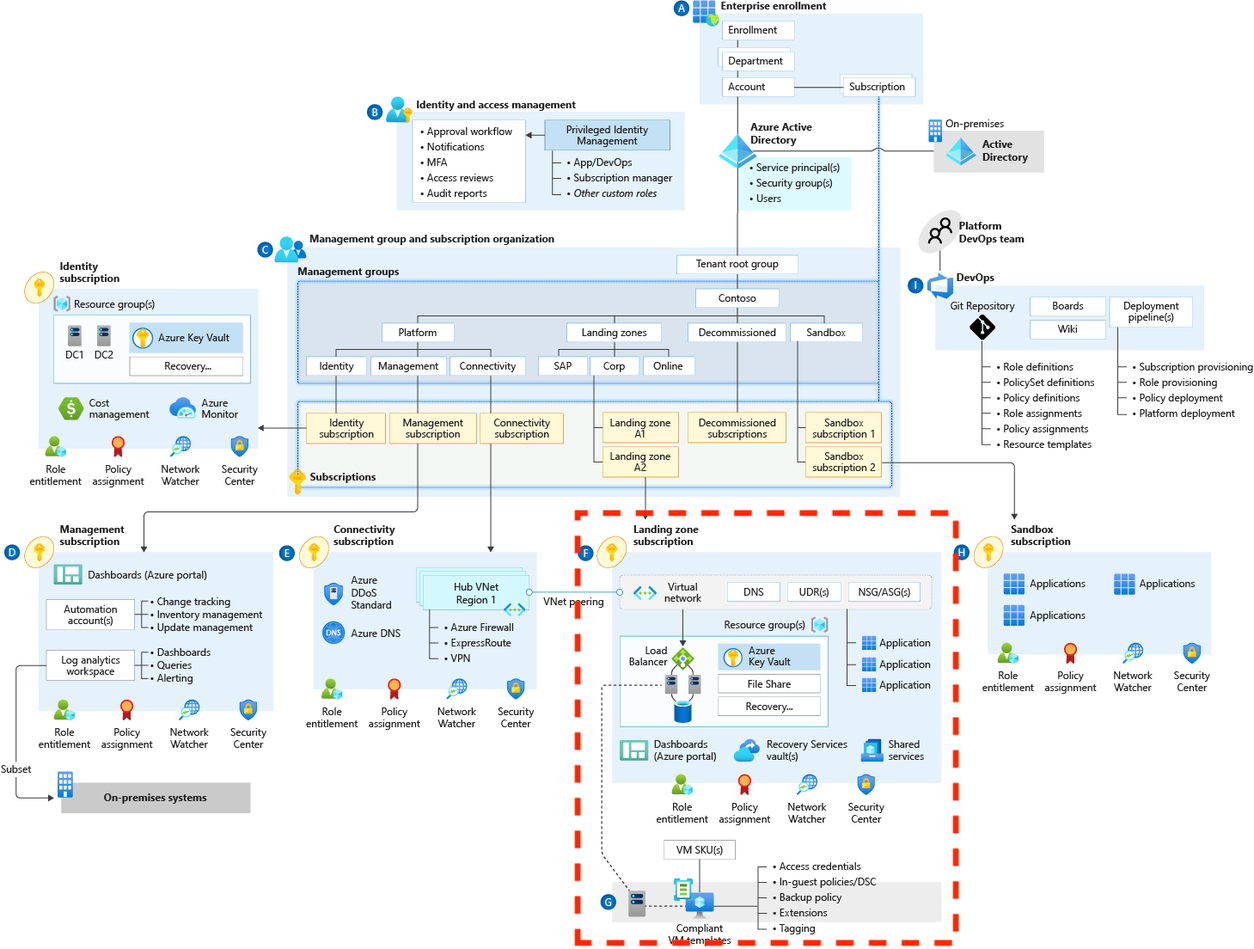
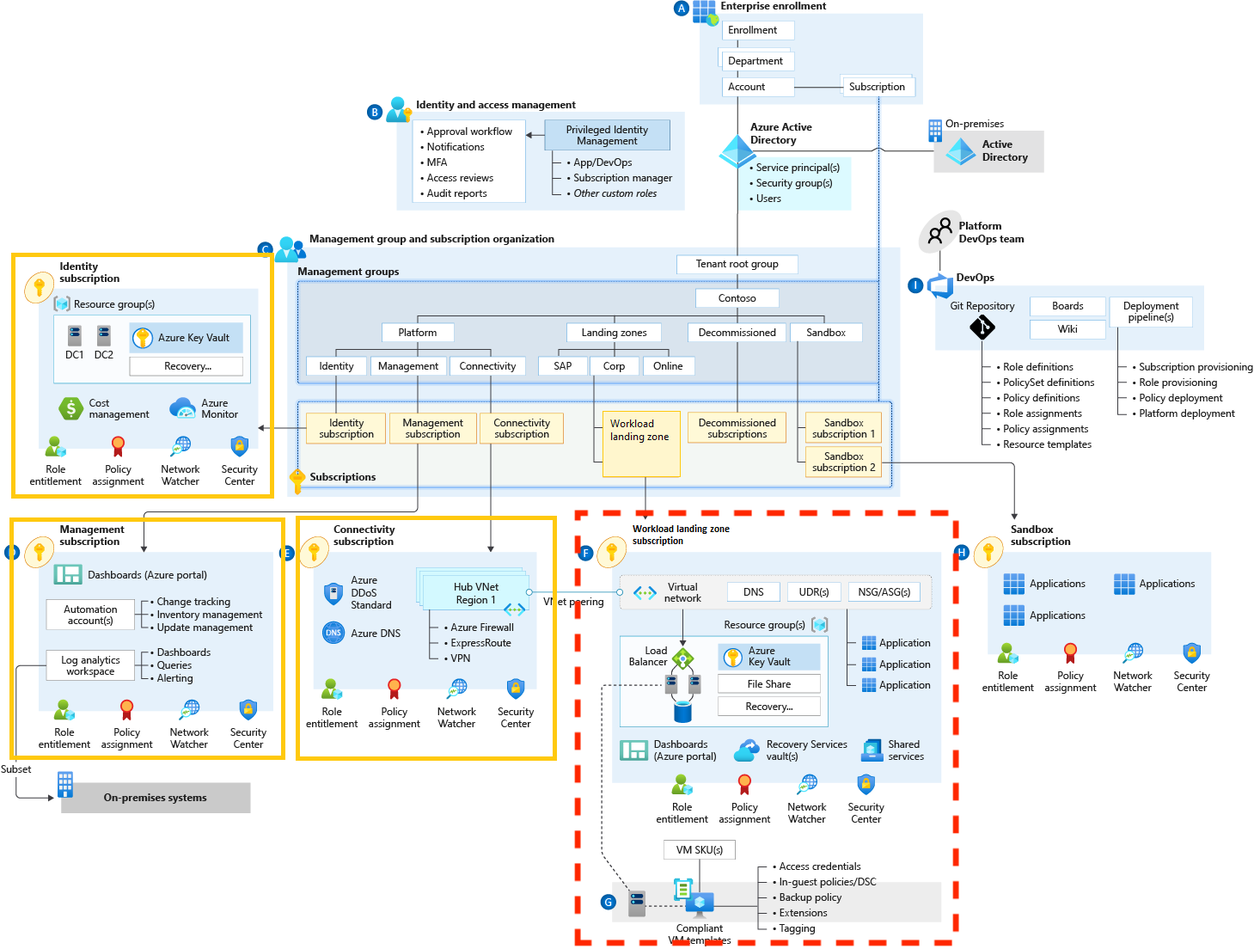
link, content, and ALZ image updates

Changed region(s): [[0.0, 0.2464, 0.4626, 0.8007], [0.4626, 0.4312, 0.5552, 0.4928], [0.4935, 0.5543, 0.586, 0.5851]]

diff --git a/docs/scenarios/defense/secure.md b/docs/scenarios/defense/secure.md
@@ -4,7 +4,7 @@ description: Recommendations for securing cloud workloads in a defense organizat
 author: stephen-sumner
 ms.author: ssumner
 ms.reviewer: ssumner
-ms.date: 10/18/2022
+ms.date: 11/14/2022
 ms.topic: conceptual
 ms.service: cloud-adoption-framework
 ms.subservice: organize
@@ -18,25 +18,17 @@ The secure methodology is a critical step in the mission domain of cloud adoptio
 
 Security refers to the cybersecurity triad of confidentiality, integrity, and availability. Even though security falls within the mission domain, it’s an important consideration at every stage in the cloud adoption journey. Security fails without a proper strategy and plan. Landing zones and governance falter without proper security considerations. Modernizations weaken security posture if security isn't built into the development and operations processes.
 
-Security is no less important for a workload. Workloads inherit security controls from the platform but must still apply security controls above the platform level.
-
-Here are a few security recommendations to consider when building and managing defense workloads.
+Security is no less important for a workload. Workloads inherit security controls from the platform but must still apply security controls above the platform level. Here are a few security recommendations to consider when building and managing defense workloads.
 
 ## Implement zero trust
 
 Zero Trust is a security methodology, not a product. Implementations of zero trust will differ, but the commonality is an attempt to eliminate trust.
 
-Three main principles of zero trust addressed here:
-
-- Verify every session explicitly.
-- Enforce the least privilege on every identity.
-- Monitor, search, and secure continuously.
+Three main principles of zero trust addressed are (1) verify every session explicitly, (2) enforce the least privilege on every identity, and (3) monitor, search, and secure continuously. Let's dig into these further.
 
 **(1) Verify every session explicitly** - Verify refers to authentication and authorization. You need to authenticate and authorize every device regardless of location. Multifactor authentication is a common defense standard where the use of a security token supplements authentication process.
 
-We recommend you use an attribute-based access control (ABAC) system. ABAC builds on role-based access control (RBAC) and requires devices to meet extra conditions before gaining access to a resource. Security professionals configure the conditions to limit access and minimize the number of roles assignments needing to be managed. Azure Active Directory provides native ABAC capabilities so cloud identities only access authorized information.
-
-For more information, see [attribute-based access control](/azure/role-based-access-control/conditions-overview).
+We recommend you use an attribute-based access control (ABAC) system. ABAC builds on role-based access control (RBAC) and requires devices to meet extra conditions before gaining access to a resource. Security professionals configure the conditions to limit access and minimize the number of roles assignments needing to be managed. Azure Active Directory provides native ABAC capabilities so cloud identities only access authorized information. For more information, see [attribute-based access control](/azure/role-based-access-control/conditions-overview).
 
 **(2) Enforce least privileges on every identity** - The concept of least privilege access is a familiar concept in defense environments. It’s visible at the macro-level in the mandatory access control system many defense organizations use. Data receives classification labels based on its sensitivity (confidential, secret, top secret), and individuals receive access to data needed to complete a task.  Once the task is completed, access is removed. Access to sensitive data when not needed is a violation of the least privileged model.
 
@@ -44,37 +36,33 @@ RBAC and ABAC are the core features of least privilege enforcement. People chang
 
 Azure simplifies access reviews with RBAC and ABAC automating aspects of access control. Conditional access policies can be tied to roles, departments, projects, and locations of defense personnel. As people change roles or locations, their access to resources will change when updated in their identity. Security teams can perform manual reviews of any resource in Azure at any time. Azure lets users see resources from multiple levels, making manual review easier.
 
-Granting elevated privilege for a defined period is a security best-practice. Azure AD simplifies the use of elevated privileges with Privileged Identity Management (PIM). PIM grants elevated privileges when requested by a legitimate user and only grants those privileges for a defined period. This process represents just-in-time-access and reduces the number of dormant accounts that have privileged access.
+Granting elevated privilege for a defined period is a security best-practice. Azure AD simplifies the use of elevated privileges with Privileged Identity Management (PIM). PIM grants elevated privileges when requested by a legitimate user and only grants those privileges for a defined period. This process represents just-in-time-access and reduces the number of dormant accounts that have privileged access. For more information on PIM, see [PIM for just-in-time access](/azure/active-directory/roles/best-practices#2-use-privileged-identity-management-to-grant-just-in-time-access).
 
-- For more information on PIM, see [PIM for just-in-time access](/azure/active-directory/roles/best-practices#2-use-privileged-identity-management-to-grant-just-in-time-access).
-- For more on identity, see [Azure Government identity](/azure/azure-government/documentation-government-plan-identity).
+For more information on identity, see [Azure Government identity](/azure/azure-government/documentation-government-plan-identity).
 
-**(3) Monitor, scan, and improve continuously** - Security shouldn’t be static. The threat landscape shifts constantly, and security must shift with it. Defense security teams should monitor, scan, and improve cloud environments to mitigate risks. Defense organizations often have required security tools that cloud-native tooling can supplement for comprehensive security detection and analysis.
+**(3) Monitor, scan, and improve continuously** - Security shouldn’t be static. The threat landscape shifts constantly, and security must shift with it. Defense security teams should monitor, scan, and improve cloud environments to mitigate risks. Defense organizations often have required security tools that cloud-native tooling can supplement for comprehensive security detection and analysis. We recommend Azure Monitor as a baseline monitoring tool. For more information, see [Azure Monitor](/azure/azure-monitor/overview).
 
 Here are a few tools that add value to defense deployments:
 
-- ***Threat intelligence***: Cloud environments should have a persistent threat intelligence and detection tool that evaluates network security posture. This tool should scan your environment and generate alerts for the vulnerabilities it detects. For more information, see [linking to threat intelligence feeds](/azure/sentinel/connect-threat-intelligence-tip).
-- ***Distributed denial of service (DDoS)***: Security tools should protect against malicious or non-malicious distributed denial-of-service attacks.
-- ***Security Information and Event Management (SIEM)***: A SIEM is a necessary threat detection and forensic capabilities that analyze, aggregates, and detects threats in logs generated throughout a cloud environment.
+***Threat intelligence***: Cloud environments should have a persistent threat intelligence feed and detection tool that evaluates network security posture. This tool should scan your environment and generate alerts for the vulnerabilities it detects. For more information, see [threat intelligence feeds](/azure/sentinel/connect-threat-intelligence-tip).
 
-For a list of available security tools, see [Azure Government security](/azure/azure-government/documentation-government-plan-security).
+***Distributed denial of service (DDoS)***: Security tools should protect against malicious or non-malicious distributed denial-of-service attacks.
 
-For more information, see [zero trust in Azure](/azure/security/fundamentals/zero-trust).
+***Security Information and Event Management (SIEM)***: A SIEM is a necessary threat detection and forensic capabilities that analyze, aggregates, and detects threats in logs generated throughout a cloud environment. For a list of available security tools, see [Azure Government security](/azure/azure-government/documentation-government-plan-security).
+
+For more information on zero trust, see [zero trust in Azure](/security/zero-trust/).
 
 ## Automate security compliance
 
-Defense security standards require defense security professionals to maintain hundreds of security controls. The manual execution of this process is labor intensive and prone to human error. It's possible to automate compliance with leading security standards and automate the remediation of cloud resources to align with those standards. Azure allows mission owners to automate compliance for:
+Defense security standards require defense security professionals to maintain hundreds of security controls. The manual execution of this process is labor intensive and prone to human error. It's possible to automate compliance with leading security standards and automate the remediation of cloud resources to align with those standards. Azure allows mission owners to automate compliance for, Zero Trust, CMMC, and NIST 800-53
 
-- Zero Trust
-- CMMC
-- NIST 800-53
+The Azure SIEM (Sentinel) can create a visual report all non-compliant resources against a given security standard. When prompted, it generates remediation suggestions for any security controls that aren’t compliant with the standard. The SIEM tool also lets security professionals download compliance assessment reports that can serve as point-in-time security baseline and improve transparency. For more information, see, [zero trust automation](/security/zero-trust/integrate/sentinel-solution) and [built-in compliance workbooks](/azure/sentinel/monitor-your-data).
 
-The Azure SIEM (Sentinel) can create a visual report all non-compliant resources against a given security standard. When prompted, it generates remediation suggestions for any security controls that aren’t compliant with the standard. The SIEM tool also lets security professionals download compliance assessment reports that can serve as point-in-time security baseline and improve transparency.
+For general security information, see:
 
-For more information, see:
-
-- [Zero trust automation](/security/zero-trust/integrate/sentinel-solution)
-- [Use built-in workbooks](/azure/sentinel/monitor-your-data)
+- [Security documentation](/security/)
+- [Security fundamentals](/azure/security/fundamentals/)
+- [Operational security checklist](/azure/security/fundamentals/operational-checklist).
 
 ## Next step
 

diff --git a/docs/scenarios/defense/adopt.md b/docs/scenarios/defense/adopt.md
@@ -4,7 +4,7 @@ description: Recommendations for adopting cloud technologies in a defense organi
 author: stephen-sumner
 ms.author: ssumner
 ms.reviewer: ssumner
-ms.date: 10/18/2022
+ms.date: 11/14/2022
 ms.topic: conceptual
 ms.service: cloud-adoption-framework
 ms.subservice: organize
@@ -22,11 +22,7 @@ During the adopt phase, defense workloads start their journey in the cloud and i
 - Modernization lowers the total cost of ownership (TCO) while driving security, performance, and efficiency.
 - Innovation is where defense organizations start building cloud native solutions to meet data needs.
 
-There are a few important considerations to be aware of in the adopt phase. It's best practice for defense organizations to:
-
-- Create a tailored migration plan.
-- Incentivize modernization.
-- Use DevOps where possible.
+There are a few important considerations to be aware of in the adopt phase.
 
 ## Create a tailored migration plan
 
@@ -47,11 +43,9 @@ For more information, see [using Azure Import/Export](/azure/import-export/stora
 
 ## Incentivize modernization
 
-Modernization is all about maximizing value and should be a priority for mission owners. Without modernization, it’s difficult to experience the true benefits of the cloud, more capabilities for less work and money.
+Modernization is all about maximizing value and should be a priority for mission owners. Without modernization, it’s difficult to experience the true benefits of the cloud, more capabilities for less work and money. Two best practices related to requirements and technology are relevant here.
 
-Two best practices are relevant to defense organizations:
-
-**(1) Modernization requirements** - The way cloud services are acquired can affect the pace of modernization. It’s common for defense organizations to operate the landing zone separately from the workloads that sit on top of it. The best model is to have the cloud-broker build and manage the landing zone while other teams manage the workloads on the platform. The separation of duties creates necessary security boundaries but can also stifle modernization. It’s important that mission owners incentivize technical teams to adopt new technologies so that defense workloads can meet current and future demands. Building modernization into requirements and setting milestones against modernization goals is an effective approach. Require proposals for technical solutions to outline how modernization efforts aligned to process improvements, application enhancement, and database configurations. These efforts should align with mission objectives.
+**(1) Modernization requirements** - The way cloud services are acquired can affect the pace of modernization. It’s common for defense organizations to operate the landing zone separately from the workloads that sit on top of it, and the best model is to have the cloud-broker build and manage the landing zone while mission owner teams manage the workloads on the platform. However, this separation of duties creates security boundaries but can also stifle modernization, so it’s important that mission owners incentivize technical teams to adopt new technologies so that defense workloads can meet current and future demands. Building modernization into requirements and setting milestones against modernization goals is an effective approach. Require proposals for technical solutions to outline how modernization efforts align to process improvements, application enhancement, and database configurations. The proposed solutions should align with mission objectives.
 
 For more information, see [modernization alignment](/azure/cloud-adoption-framework/modernize/business-alignment/).
 
@@ -67,19 +61,20 @@ For more information, see [PaaS adoption](/azure/cloud-adoption-framework/modern
 
 DevOps is an Agile methodology that focuses on delivering value. DevOps synchronizes development and operations into an iterative process that aims to generate value fast. Prioritization of tasks is the key mechanism. When worked is prioritized, teams finish the highest priority tasks first. Work is also time-bound to create a feedback loop that accelerates learning and speeds up delivery.
 
-Defense standards and risk mitigation processes tend to limit the extent that defense organizations can implement true DevOps. Protocols, regulations, and contracting lifecycles force defense development and operations into waterfall framework. However, it’s possible to apply DevOps principles within the confines of these regulations.
+Defense standards and risk mitigation processes tend to limit the extent that defense organizations can implement true DevOps. Protocols, regulations, and contracting lifecycles force defense development and operations into waterfall framework. However, it’s possible to apply DevOps principles within the confines of these regulations. Here are a few DevOps recommendations:
 
-Here are a few DevOps recommendations:
-
-**(1) Align to existing process** - DevOps shouldn’t break existing structure. It should align to it. It's worth considering how a full adoption of DevOps can enhance workloads, but until that time, DevOps should work within the confines of existing operations. If current operations are more waterfall, DevOps strategies can work between those sequential milestones. DevOps implementations should account for the mandatory handoffs and sequential checkpoints many defense risk management processes are founded on. An approach that disregards the current system is destined to fail.
+**(1) Align to existing process** - DevOps shouldn’t break existing structure. It should align to it. It's worth considering how a full adoption of DevOps can enhance workloads, but until that time, DevOps should work within existing operations. If current operations are more waterfall, DevOps strategies can work between those sequential milestones. DevOps implementations should account for the mandatory handoffs and sequential checkpoints many defense risk management processes are founded on. An approach that disregards the current system is destined to fail.
 
 **(2) Improve quickly** - The ability to iterate through tasks multiple times with reviews allows technical teams to improve development and operations quickly. Teams should work on developing a minimum viable product and a proof-of-concept and improve them until they meet mission objectives.
 
-**(3) Use continuous integration and continuous deployment (CI/CD)** - CI/CD is a standard DevOps concept. It’s an automated approach to constantly improve and deploy code into production. Rarely is it a good idea to deploy code changes on mission critical workloads directly into production, so this approach needs to be modified for defense scenarios. We recommend two CI/CD pipelines for mission-critical workloads. The first CI/CD pipeline should create a stage deployment that can be rigorously tested. Code can be deployed to production only after passing all required tests. Development teams will need to fine tune the process to ensure tests can be completed on staged deliverables as quickly as they arrive.
+**(3) Use continuous integration and continuous deployment (CI/CD)** - CI/CD is a standard DevOps concept. It’s an automated approach to constantly improve and deploy code into production. Rarely is it a good idea to deploy code changes on mission critical workloads directly into production, so this approach needs to be modified for defense scenarios. We recommend two CI/CD pipelines for mission-critical workloads. The first CI/CD pipeline should create a stage deployment that can be rigorously tested. Code can be deployed to production only after passing all required tests. Development teams will need to fine tune the process to ensure tests can be completed on staged deliverables as quickly as they arrive. For more information our CI/CD capabilities, see [Azure Pipelines](/azure/devops/pipelines/get-started/what-is-azure-pipelines).
 
-**(4) DevOps tools** - The adoption of DevOps tools is needed to make DevOps work at any level. Create a list of DevOps tools with their impact-level authorizations mapped to their DevOps process. This mapping might be a good requirement for proposals and will help determine how much DevOps can be adopted.
+**(4) DevOps tools** - The adoption of DevOps tools is needed to make DevOps work. Create a list of needed DevOps tools with their impact-level authorizations mapped to their DevOps process. This mapping might be a good requirement for proposals and will help determine how much DevOps can be adopted.
 
-For more information on DevOps, see [process modernization](/azure/cloud-adoption-framework/modernize/modernize-strategies/process-modernization).
+For more information on DevOps, see:
+
+- [Process modernization](/azure/cloud-adoption-framework/modernize/modernize-strategies/process-modernization)
+- [Azure DevOps](/azure/devops/)
 
 ## Next step
 

diff --git a/docs/scenarios/defense/govern.md b/docs/scenarios/defense/govern.md
@@ -4,7 +4,7 @@ description: Recommendations for cloud platform governance in a defense organiza
 author: stephen-sumner
 ms.author: mimckann
 ms.reviewer: ssumner
-ms.date: 10/18/2022
+ms.date: 11/14/2022
 ms.topic: conceptual
 ms.service: cloud-adoption-framework
 ms.subservice: organize
@@ -20,19 +20,7 @@ Governance is a framework that aligns personnel, deployments, and budgets to a c
 
 Defense organizations need governance to mitigate risks. Effective cost, security, and policy governance can streamline platform operations and provide a means to inherit these guardrails at the workload level. Without proper governance, significant management burdens and productivity limits will occur. A lack of governance also creates responsibility gaps, introduces security risks, and delays return on investments (ROIs) due to excessive deployment delays and rework.
 
-For more information, see:
-
-- [Governance guide](/azure/cloud-adoption-framework/govern/guides/complex/)
-- [Governance disciplines](/azure/cloud-adoption-framework/govern/governance-disciplines)
-
-To avoid some of these issues, it’s worth considering the following best practices:
-
-- Evaluate roles and responsibilities
-- Automate compliance
-- Create a cost governance strategy
-- Create cost baselines
-
-Let's address each best practice:
+To avoid some of these issues, it’s worth considering the following governance best practices.
 
 ## Evaluate roles and responsibilities
 
@@ -62,7 +50,7 @@ Policies in Azure create a firm guardrail and automate the bulk of governance ta
 For more on governance automation, see
 
 - [Security governance](/azure/cloud-adoption-framework/secure/security-governance)
-- [Overview of Azure Policy](/azure/governance/policy/overview)
+- [Overview of Azure Policy](/azure/governance/policy/)
 - [Compliance in Azure](/azure/azure-government/documentation-government-plan-compliance)
 - [Azure compliance standards](/azure/compliance/)
 - [Governance visualization tool](https://github.com/microsoft/CloudAdoptionframework/tree/master/govern/AzureGovernanceVisualizer)
@@ -81,7 +69,7 @@ Here are a few considerations when building a cost governance strategy:
 
 **(4) Trend analysis** - Conduct trend analysis to drive transparency and allows visibility into active resources and consumption. Anomalous spikes in resource spend and should be brought to the technical team for explanation. It could signal a new phase in operations or a governance gap. Flag and review any new charges or spikes in trends. This form of active cost management helps avoid waste and mitigates risk. Trend analysis can also help manage infrastructure and determine future priorities. Mission owners can see how much money is spent on a given capability. If the money spent doesn’t help meet mission objectives, the future of this resource or workload needs reevaluation.
 
-For more information, see [cost governance](/azure/cloud-adoption-framework/govern/cost-management/).
+For more information, see [cost governance](/azure/cloud-adoption-framework/govern/cost-management/) and [cost management & billing](/azure/cost-management-billing/cost-management-billing-overview).
 
 ## Create cost baselines
 
@@ -100,9 +88,12 @@ Here are some practical steps to creating workload estimates:
 
 Not all variables require entry, and some services can be difficult to estimate. Mission owners should determine the level of accuracy required to establish this baseline. Once a TCO estimate is created, mission owners should document this data for later analysis.
 
-**(2) Estimate monthly costs for required services** - The next step in establishing a workload cost baseline is to determine the estimated monthly costs for required services. Monthly estimates tie into budgets and budgets enable business forecasting. The resource organization capabilities in Azure facilitate budgets at different levels in an organization structure. Budgets can be applied at the Management Group, Subscription, or Resource Group level. Additional information on creating, monitoring, and updating budgets within Azure can be found in the Azure Cost Management & Billing documentation. The [Azure pricing calculator](https://azure.microsoft.com/pricing/calculator/) can help create monthly estimates and TCO calculator. These estimates should be run for each individual workload to be migrated. Once a monthly Azure workload estimate has been calculated, the mission owner should document this data into a repository or other tracking resource for later analysis. This location should be the same as the TCO estimate.
+**(2) Estimate monthly costs for required services** - The next step in establishing a workload cost baseline is to determine the estimated monthly costs for required services. Monthly estimates tie into budgets and budgets enable business forecasting. The resource organization capabilities in Azure facilitate budgets at different levels in an organization structure. Budgets can be applied at the Management Group, Subscription, or Resource Group level. Additional information on creating, monitoring, and updating budgets within Azure can be found in the Azure Cost Management & Billing documentation. The [Azure pricing calculator](https://azure.microsoft.com/pricing/calculator/) can help create monthly estimates and TCO calculator. These estimates should be run for each individual workload to be migrated. Once a monthly Azure workload estimate has been calculated, the mission owner should document this data into a repository or other tracking resource for later analysis. This location should be the same as the TCO estimate. For more information, see [cost tools](/azure/cloud-adoption-framework/govern/cost-management/toolchain).
 
-For more information, see [cost tools](/azure/cloud-adoption-framework/govern/cost-management/toolchain).
+For more information on governance, see:
+
+- [Governance guide](/azure/cloud-adoption-framework/govern/guides/complex/)
+- [Governance disciplines](/azure/cloud-adoption-framework/govern/governance-disciplines)
 
 ## Next step
 

diff --git a/docs/scenarios/defense/index.md b/docs/scenarios/defense/index.md
@@ -4,7 +4,7 @@ description: Cloud adoption guidance for defense organizations
 author: stephen-sumner
 ms.author: wayneme
 ms.reviewer: ssumner
-ms.date: 10/18/2022
+ms.date: 11/14/2022
 ms.topic: conceptual
 ms.service: cloud-adoption-framework
 ms.subservice: general
@@ -20,19 +20,15 @@ The defense scenario is divided into three domains: command, platform, and missi
 
 ## Command domain
 
-The command domain focuses on preparing defense organizations for cloud adoption so that they can achieve their objectives. Here mission owners take the following action:
-
-- Identify goals and motivators
-- Define a roadmap to achieve those identified goals
-- Involve the right people to develop, execute, and maintain your cloud solution
+The command domain focuses on preparing defense organizations for cloud adoption so that they can achieve their objectives. Here mission owners (1) identify goals and motivators, (2) define a roadmap to achieve those identified goals, and (3) involve the right people to develop, execute, and maintain the cloud solution.
 
 ## Platform domain
 
-The platform domain focuses on establishing a foundation for defense workloads to run in the cloud. The high priority in this domain is aligning with a cloud broker approach. The preferred way to build a cloud platform is with a cloud broker. A cloud broker builds and maintains the platform while establishing connectivity, identity, and governance for the platform. The platform domain provides guidance on how to prepare and execute with a cloud broker.
+The platform domain focuses on establishing a foundation for Mission applications and services to run in the cloud. The high priority in this domain is aligning with a cloud broker approach. The preferred way to build a cloud platform is with a cloud broker. A cloud broker builds and maintains the platform while establishing connectivity, identity, and governance for the platform. The platform domain provides guidance on how to prepare and execute with a cloud broker.
 
 ## Mission domain
 
-The workload domain focuses on the iterative process of developing cloud solutions. The domain covers technology adoption and how to use those technologies to secure and manage defense workloads. Whether migrating or rearchitecting an application using cloud native services, architectural decisions need to be made that align with mission objectives, and the workload domain provides guidance in this area.
+The mission domain focuses on the iterative process of developing cloud solutions. The domain covers technology adoption and how to use those technologies to secure and manage defense workloads. Whether migrating or rearchitecting an application using cloud native services, architectural decisions need to be made that align with mission objectives, and the workload domain provides guidance in this area.
 
 ## Next step
 

diff --git a/docs/scenarios/defense/plan.md b/docs/scenarios/defense/plan.md
@@ -4,7 +4,7 @@ description: Recommendations for planning a cloud adoption strategy in a defense
 author: stephen-sumner
 ms.author: wayneme
 ms.reviewer: ssumner
-ms.date: 10/18/2022
+ms.date: 11/14/2022
 ms.topic: conceptual
 ms.service: cloud-adoption-framework
 ms.subservice: plan
@@ -33,10 +33,13 @@ Cloud brokers provided the following benefits:
 
 Let's address each of these benefits:
 
-**(1) Governed platform landing zone** - The services, solutions, and workloads hosted in a defense environment require governed environments. Cloud brokers build and maintain governed environments that meet compliance requirements. These environments are comprised of multiple landing zones. A landing zone includes all the foundational components defense workloads needed for secure, reliable, and cost-effective cloud operations. There are two types of landing zones in a defense environment: platform landing zone and workload landing zone.
+**(1) Governed platform landing zone** - The services, solutions, and workloads hosted in a defense environment require governed environments. Cloud brokers build and maintain governed environments that meet compliance requirements, and these environments consist of multiple landing zones.
 
-- The platform landing zone provides core services used by multiple workloads.
-- The workload landing zones are for workloads. The red box outlines the workload landing zone.
+A landing zone includes all the components defense workloads need for secure, reliable, and cost-effective cloud operations. There are two types of landing zones, platform landing zones and workload landing zones.
+
+***Platform landing zone*** - The platform landing zone provides core services used by multiple workloads. The three subscriptions outlined in yellow form the platform landing zone. Together they provide shared identity, management, and connectivity solutions to the workloads in this tenant.
+
+***Workload landing zone*** - The workload landing zones are for workloads, applications and their supporting components. The red box outlines the workload landing zone.
 
 :::image type="content" source="./images/cloud-broker-landing-zone.png" alt-text="Diagram of an Azure landing zone architecture. A red box around the landing zone subscription outlines mission owner responsibilities with a cloud broker. The cloud broker handles the rest of the architecture." border="false":::
 *Diagram 2: Azure landing zone architecture with mission owner responsibilities outlined in red*

diff --git a/docs/scenarios/defense/organize.md b/docs/scenarios/defense/organize.md
@@ -4,7 +4,7 @@ description: Recommendations for organizing a defense organization for cloud ado
 author: stephen-sumner
 ms.author: wayneme
 ms.reviewer: ssumner
-ms.date: 10/18/2022
+ms.date: 11/14/2022
 ms.topic: conceptual
 ms.service: cloud-adoption-framework
 ms.subservice: organize
@@ -32,9 +32,11 @@ For more information, see [required cloud functions](/azure/cloud-adoption-frame
 
 The mission owner and cloud broker share responsibility for the platform. It’s best practice to define platform responsibilities along the following lines:
 
-- ***Cloud service provider (Azure)*** – At a minimum, the cloud service provider maintains the physical infrastructure and secures the resources in the data center. This responsibility level corresponds to an infrastructure-as-a-service (IaaS) deployment. The responsibility changes with platform-as-a-service (PaaS) and software-as-a-service (SaaS) solutions.
-- ***Cloud broker*** – The cloud broker manages most of the platform. It ensures connectivity to the on-premises defense network, manages the identity solution (tenant), and most supporting services.
-- ***Mission owner*** – The mission owner builds, migrates, and manages applications on top of the platform. Responsibilities include code security, application reliability, data protection, and modernization.
+***Cloud service provider (Azure)*** – At a minimum, the cloud service provider maintains the physical infrastructure and secures the resources in the data center. This responsibility level corresponds to an infrastructure-as-a-service (IaaS) deployment. The responsibility changes with platform-as-a-service (PaaS) and software-as-a-service (SaaS) solutions.
+
+***Cloud broker*** – The cloud broker manages most of the platform. It ensures connectivity to the on-premises defense network, manages the identity solution (tenant), and most supporting services.
+
+***Mission owner*** – The mission owner builds, migrates, and manages applications on top of the platform. Responsibilities include code security, application reliability, data protection, and modernization.
 
 ## Assign financial oversight
 

diff --git a/docs/scenarios/defense/ready.md b/docs/scenarios/defense/ready.md
@@ -4,7 +4,7 @@ description: Recommendations for building a landing zone in a defense organizati
 author: stephen-sumner
 ms.author: ssumner
 ms.reviewer: ssumner
-ms.date: 10/18/2022
+ms.date: 11/14/2022
 ms.topic: conceptual
 ms.service: cloud-adoption-framework
 ms.subservice: organize
@@ -28,6 +28,7 @@ For information on landing zones, see:
 
 - [Introduction to landing zones](/azure/cloud-adoption-framework/ready/landing-zone/)
 - [Secure Azure Cloud Architecture (SACA) overview](/azure/azure-government/compliance/secure-azure-computing-architecture)
+- [SACA landing zone accelerator](https://github.com/Azure/missionlz)
 
 Here are a few general architecture recommendations for landing zone deployments:
 

diff --git a/docs/scenarios/defense/manage.md b/docs/scenarios/defense/manage.md
@@ -4,7 +4,7 @@ description: Recommendations for managing cloud workloads in a defense organizat
 author: stephen-sumner
 ms.author: ssumner
 ms.reviewer: ssumner
-ms.date: 10/18/2022
+ms.date: 11/14/2022
 ms.topic: conceptual
 ms.service: cloud-adoption-framework
 ms.subservice: manage
@@ -44,6 +44,7 @@ For more information, see:
 
 - [Management guide](/azure/cloud-adoption-framework/manage/azure-management-guide/)
 - [Management considerations](/azure/cloud-adoption-framework/manage/considerations/)
+- [Service health](/azure/service-health/service-health-overview)
 
 ## Next step
 
